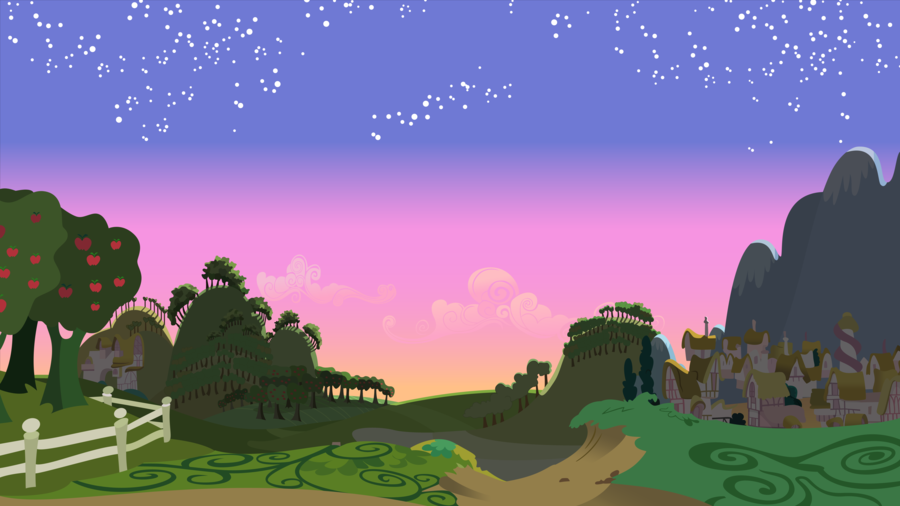
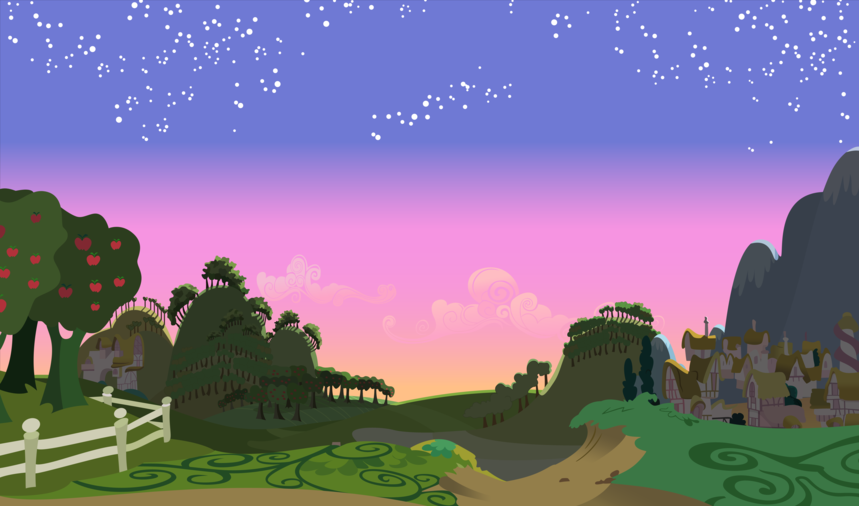
kitten terminado

diff --git a/css/main.css b/css/main.css
@@ -5,17 +5,14 @@
 }
 
 body {
-  background-image: url(../assets/img/landscape.jpg);
+  background-image: url(../assets/img/maxresdefault.jpg);
+  background-size: auto 100vh;
   background-repeat: no-repeat;
   display: flex;
   flex-direction: column;
   justify-content: flex-end;
   align-items: center;
-}
-
-figure {
-  width: 500px;
-  height: auto;
+  height: 100vh;
 }
 
 img {
@@ -23,23 +20,18 @@ img {
   height: auto;
 }
 
-@media (min-width: 480px) {
-  body {
-    background-image: url(../assets/img/maxresdefault.jpg);
-    background-position: center top;
-  }
-}
-
-@media (min-width: 480px) {
+@media (min-width: 588px) {
   body {
     background-image: url(../assets/img/dawn.png);
     background-position: center top;
+    background-size: auto 100vh;
   }
 }
 
-@media (min-width: 900px) {
+@media (min-width: 800px) {
   body {
     background-image: url(../assets/img/landscape.jpg);
-    background-position: center;
+    background-position: center center;
+    background-size: auto;
   }
 }

diff --git a/index.html b/index.html
@@ -9,9 +9,17 @@
   </head>
   <body>
     <figure>
-      <img src="assets/img/kitten-medium.png" alt=""
-           srcset="assets/img/kitten-large.png 1x">
+      <picture>
+        <source
+          media="(min-width: 800px)"
+          srcset="assets/img/kitten-medium.png">
+        <source
+          media="(min-width: 588px)"
+          srcset="assets/img/kitten-large.png">
+        <img
+          src="assets/img/kitten-small.png"
+          alt="cute kitten">
+      </picture>
     </figure>
-
   </body>
 </html>
